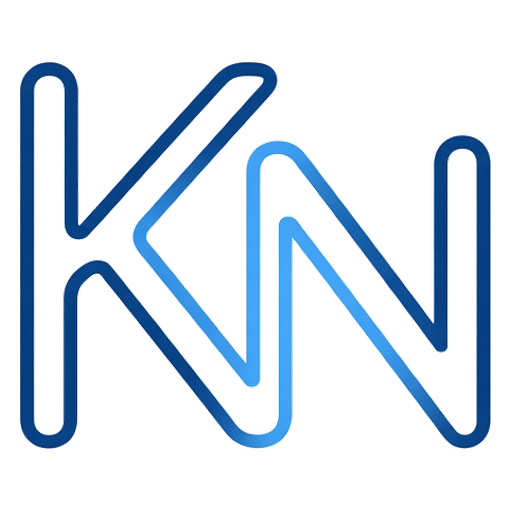
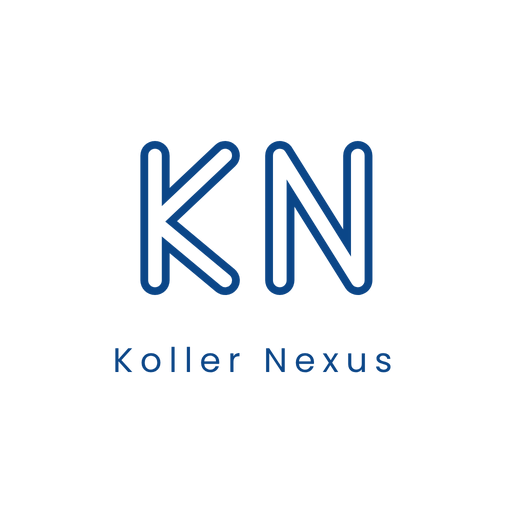
feat: alter image

Changed region(s): [[0.0312, 0.0938, 0.9688, 0.875]]

diff --git a/src/components/Header.tsx b/src/components/Header.tsx
@@ -7,7 +7,7 @@ export default function Header() {
       <div className="frame header-inner">
         <Link href="#top" className="brand-link" aria-label="Koller Nexus, início">
           <Image
-            src="/koller-nexus-mark.png"
+            src="/koller-nexus-kn.png"
             alt=""
             width={480}
             height={480}

diff --git a/src/app/layout.tsx b/src/app/layout.tsx
@@ -47,10 +47,6 @@ export const metadata: Metadata = {
       "Soluções modernas em Backend, Frontend, Mobile, DevOps e IA.",
     images: ["/koller-nexus-og.jpg"],
   },
-  icons: {
-    icon: "/koller-nexus-icon.png",
-    apple: "/koller-nexus-icon.png",
-  },
 };
 
 export default function RootLayout({ children }: LayoutProps<"/">) {
